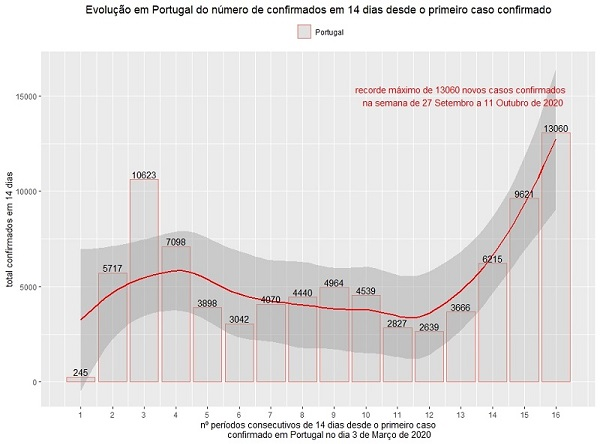
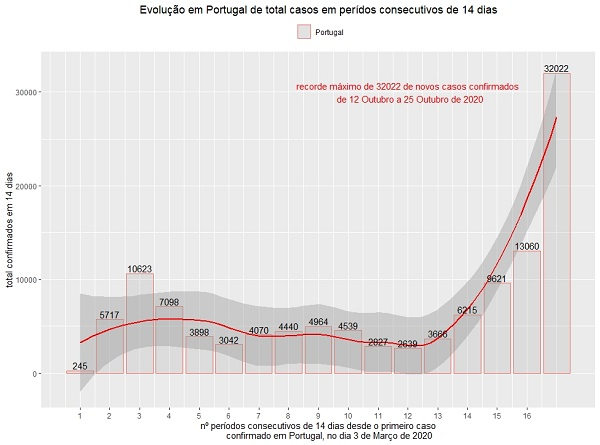
visuals updated

diff --git a/app/index.html b/app/index.html
@@ -127,8 +127,8 @@
           <img class = "feature-item__icon" src="assets/images/icons/analytics-paper.svg" width="70px" height="70px">
           <h3 class = "feature-item__title">Análise de dados no <strong>RStudio</strong></h3>
           <p>O número de novos casos positivos em Portugal foram analisados em <strong>clusters de datas correspondentes a períodos consecutivos de 14 dias desde o primeiro caso confirmado positivo</strong>, com o <strong>RStudio-ggplot2</strong>.
-            Existe um aumento significativo de contágios, havendo um recorde de <strong>13060 casos positivos</strong> no último período de 14 dias analisado (de 27 setembro a 11 de outubro de 2020). 
-            Esta evolução corresponde a uma <strong>média diária de 932 novos casos positivos</strong> em Portugal.
+            Existe um aumento significativo de contágios, havendo um recorde de um total de <strong>32022 casos positivos</strong> no último período de 14 dias analisado (de 12 Outubro a 25 de outubro de 2020). 
+            Esta evolução corresponde a uma <strong>média diária de 2287 novos casos positivos</strong> em Portugal, um <strong>aumento de 145%</strong> face ao anterior período de 14 dias (que registou média diária de 932 novos casos).
           </p>
           <!--insert images here-->
           <div class = "wrapper wrapper--medium wrapper--b-margin">
